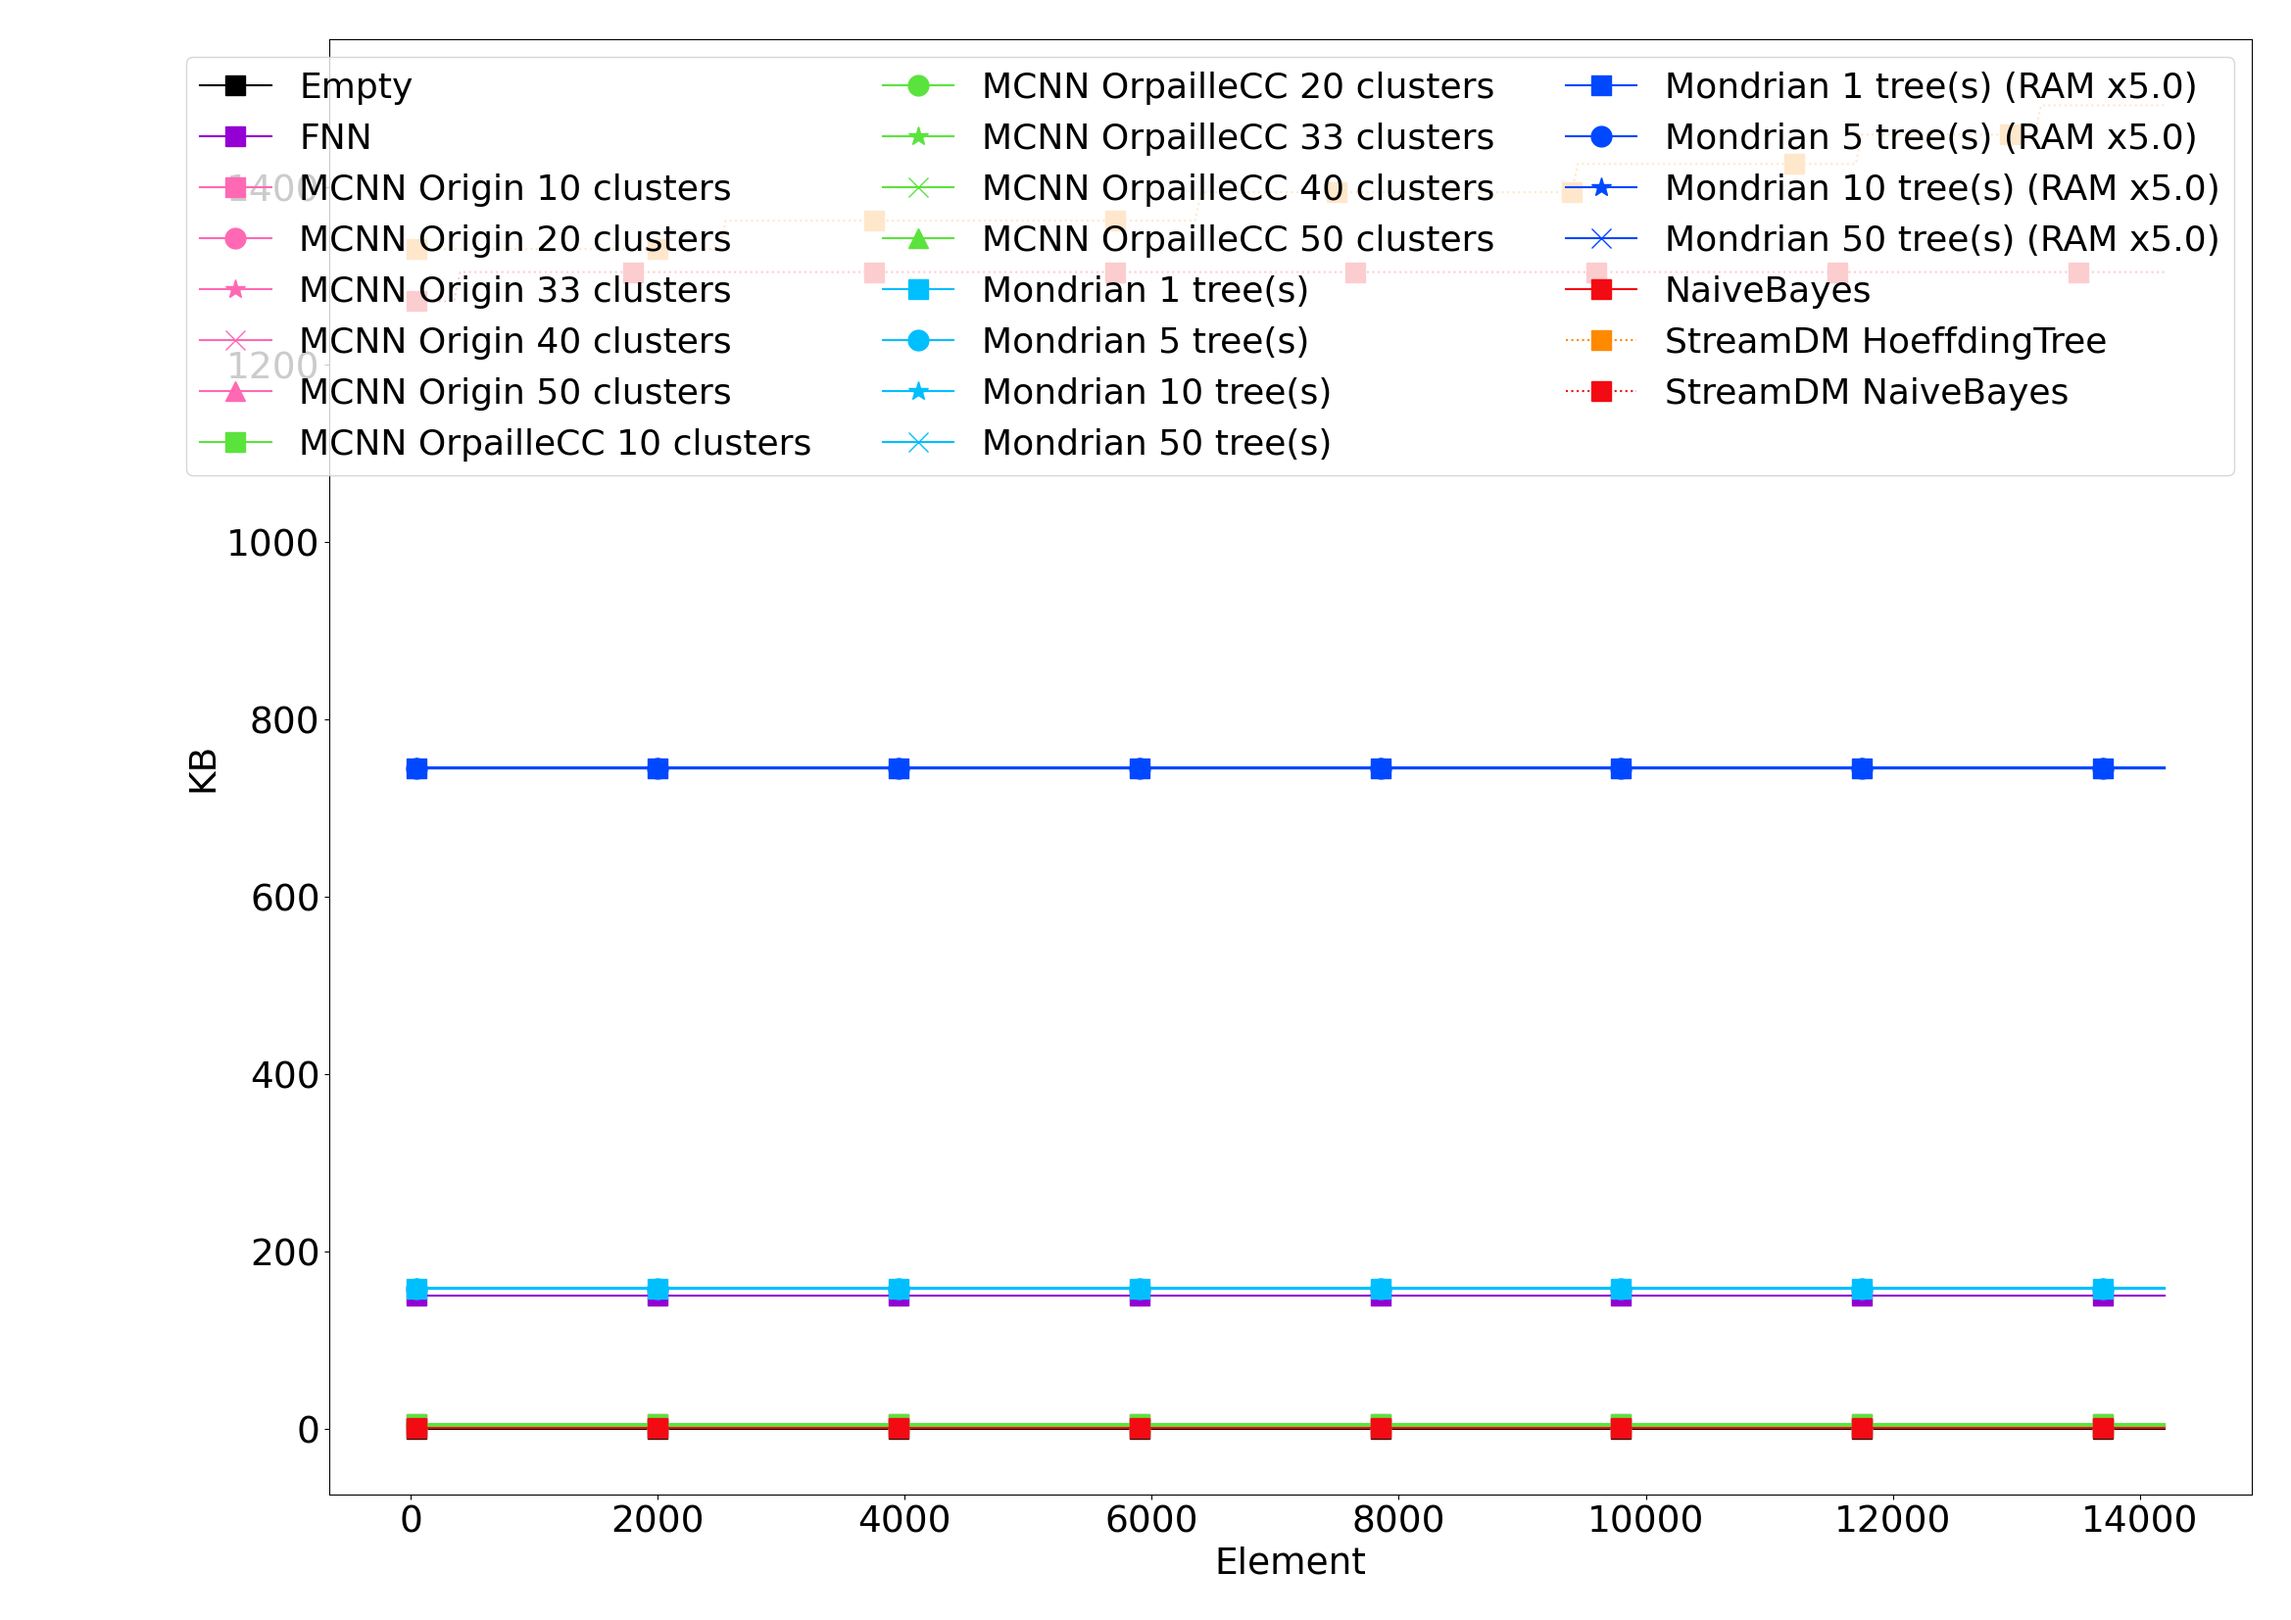
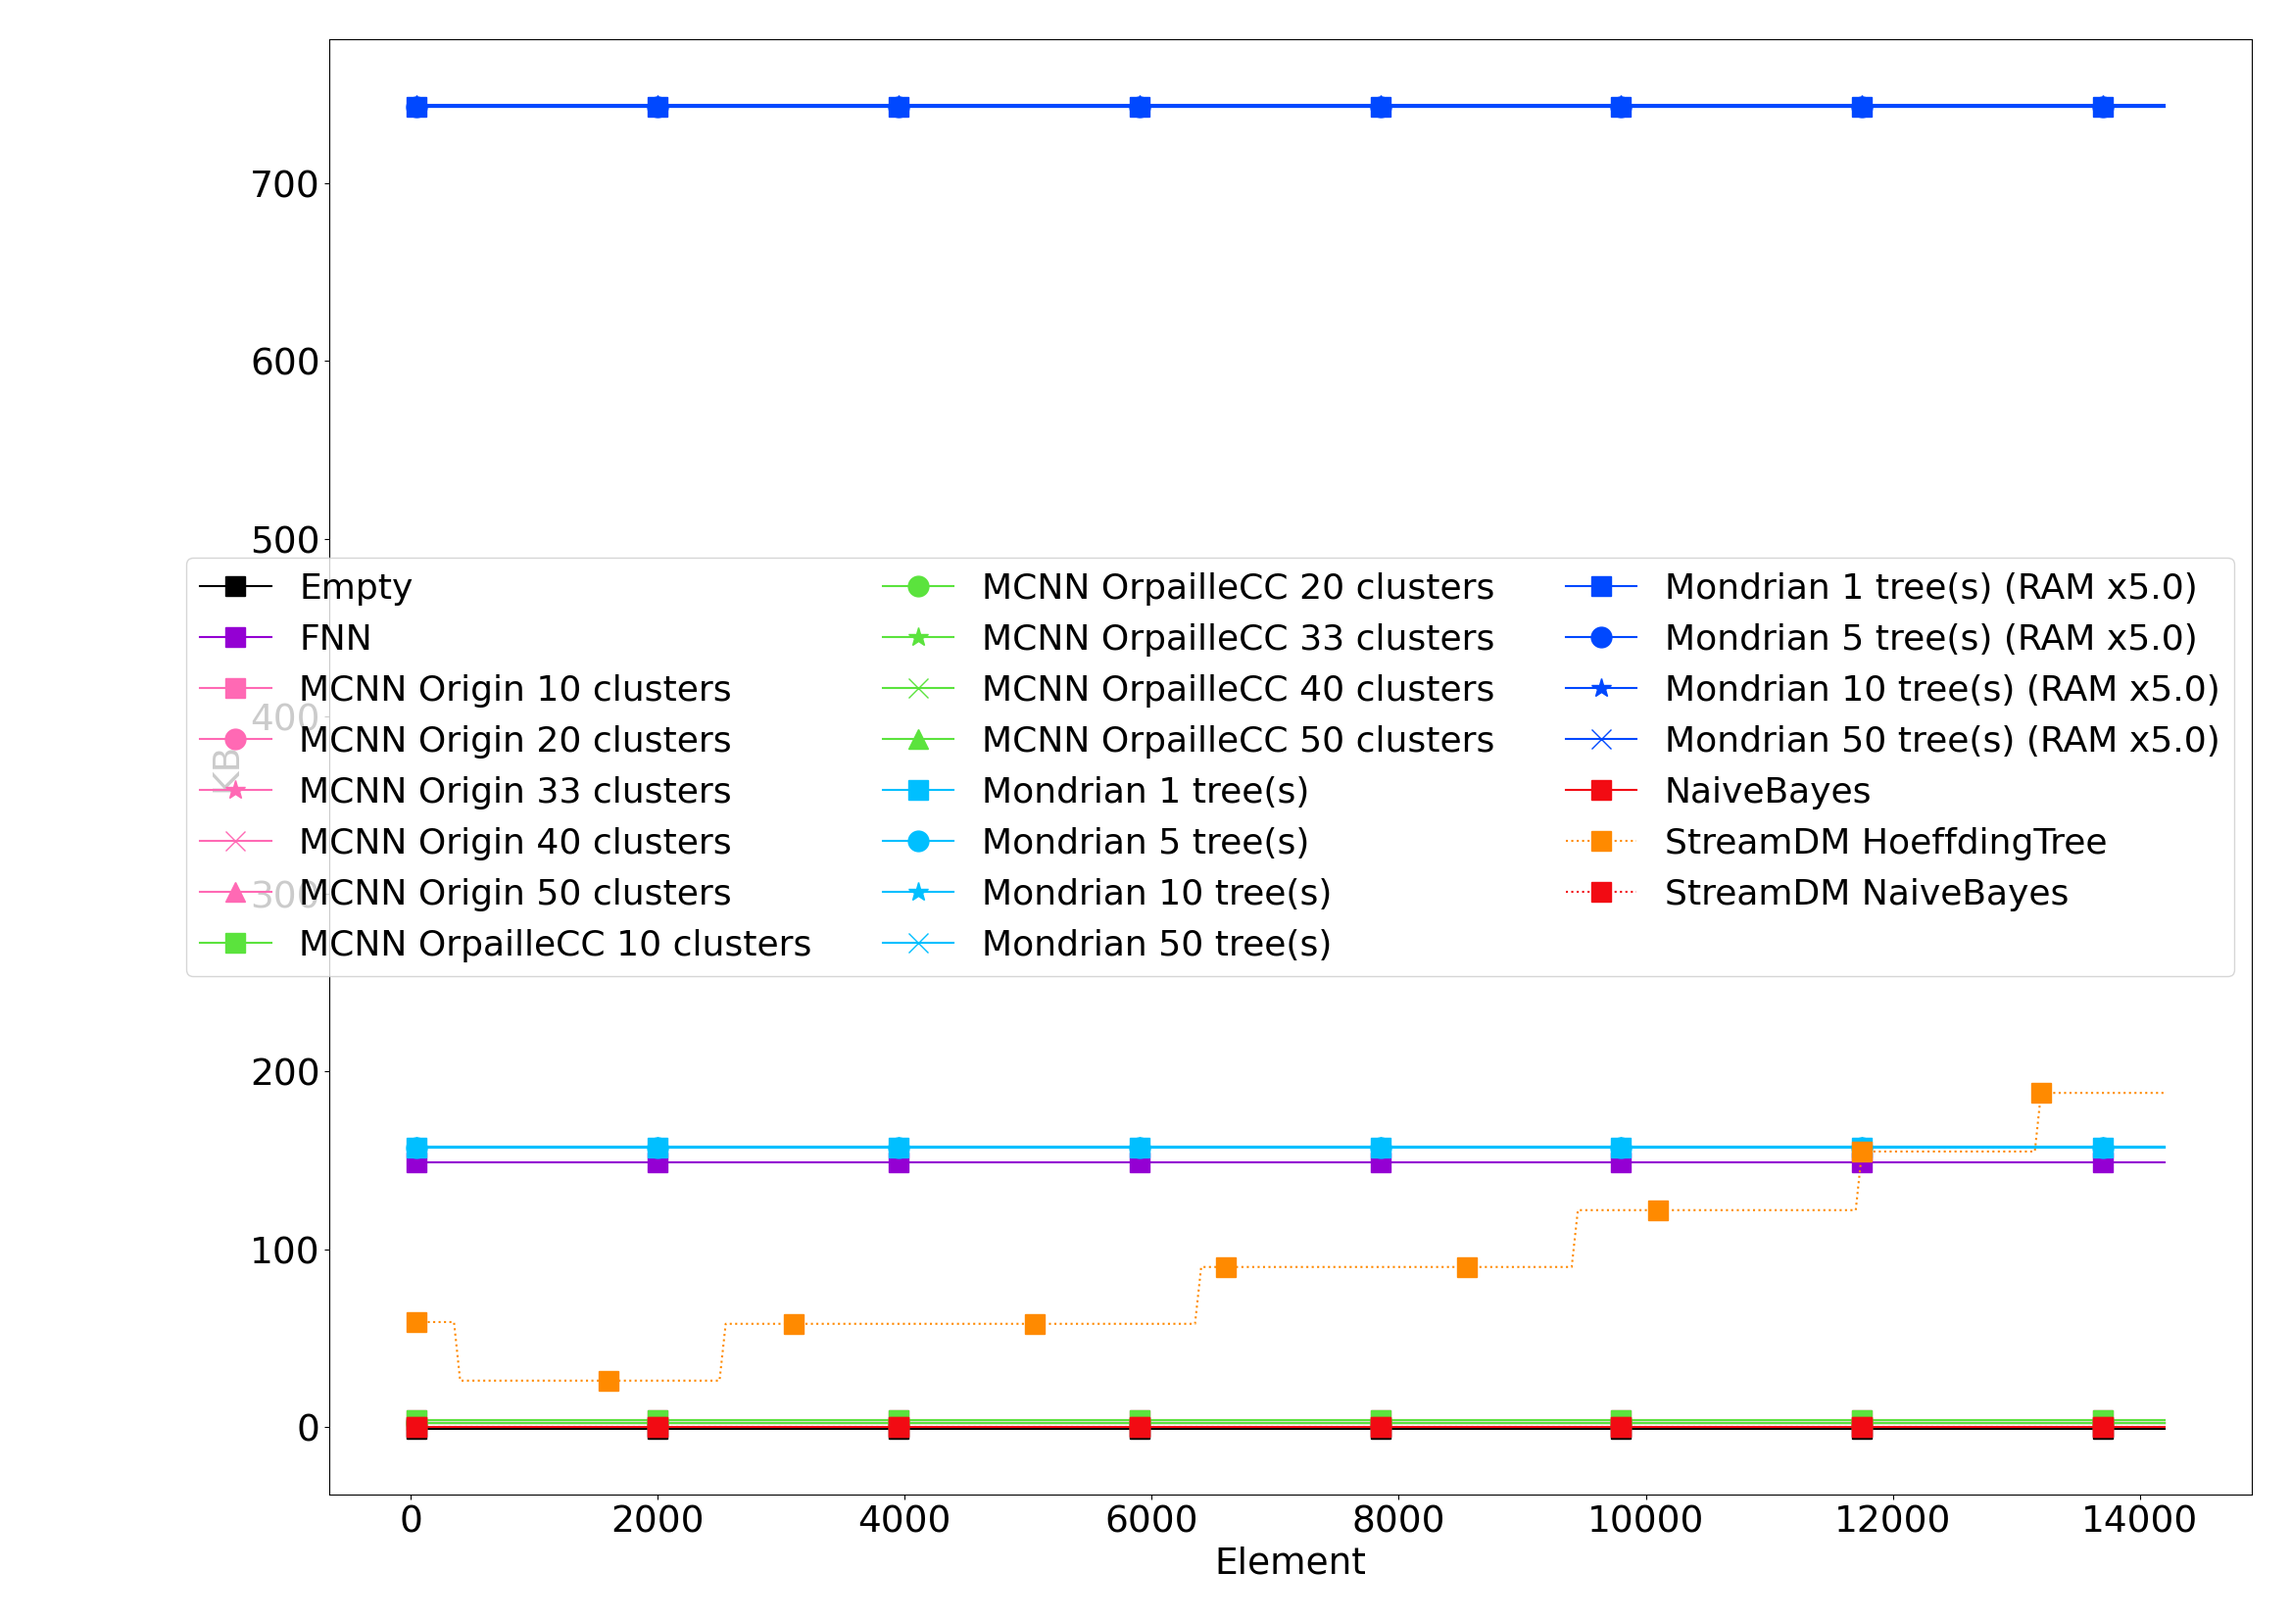
Update results.

diff --git a/paper/results.tex b/paper/results.tex
@@ -50,6 +50,18 @@ it barely reaches 0.65 for the \banosdataset dataset, and it remains under
 0.4 on the \recofitdataset and RandomTree datasets. This trend is
 consistent for all classifiers.
 
+%Offline observations
+The offline KNN used as comparison achieves better F1 scores than all other
+classifiers except for the \mondrianforest on the Hyperplane and the RandomRBF.
+In particular, these F1 scores are lower than what is observed in litterature.
+Indeed, on \banosdataset KNN only reach 0.86 when \cite{behzad2019} achieves
+0.92 and \cite{Banos_2014} reaches 0.96. Similarly, \cite{behzad2019} reaches
+0.65 on \recofitdataset dataset when we only achieve 0.4.
+
+%Offline observations
+The offline KNN used as comparison achieves better F1 scores than all other
+classifiers except for the \mondrianforest on the Hyperplane and the RandomRBF.
+
 %Hoeffding and Naïve Bayes description when they are the best
 The \naivebayes and the \hoeffdingtree stand out on the two real datasets
 (\banosdataset and \recofitdataset) even though the F1-scores observed remained
@@ -137,7 +149,10 @@ to adjust correctly so if the weights were randomly initialized for the testing
 phase, the \FNN would answer randomly.  We deviated from the method for the \FNN
 classifier because neural networks have shown a wide range of classification
 abilities depending on how they are used.  Therefore, we
-followed~\cite{omid_2019} which exhibits high classification performance.
+followed~\cite{omid_2019} which exhibits high classification performance. Since
+the \FNN model is tightly coupled with network structure and since we only
+trained the model with subject 1 from \banosdataset, we only run \FNN on the
+\banosdataset datasets.
 
 %Variance
 Figure~\ref{fig:f1-banos} includes the F1 score variance. Only the
@@ -219,18 +234,18 @@ connected objects.}
 
 \subsection{Runtime}
 Figure~\ref{fig:runtime} shows the runtime of classifiers for the two real
-datasets. The
-\mondrianforest is the slowest classifier, in particular for 50 trees. The
-second slowest classifier is the \hoeffdingtree, with a runtime comparable to the
-\mondrianforest with 10 trees. The \hoeffdingtree is followed by the two \naivebayes
-implementations, which is not surprising since \naivebayes classifiers are used
-in the leaves of the \hoeffdingtree. The \mcnn classifiers are the fastest
-ones, with a runtime very close to the empty classifier.
+datasets. The \mondrianforest is the slowest classifier, in particular for 50
+trees. The second slowest classifier is the \hoeffdingtree, with a runtime
+comparable to the \mondrianforest with 10 trees. The \hoeffdingtree is followed
+by the two \naivebayes implementations, which is not surprising since
+\naivebayes classifiers are used in the leaves of the \hoeffdingtree. The \mcnn
+classifiers are the fastest ones, with a runtime very close to the empty
+classifier. Note that allocating more memory to the \mondrianforest
+significatively increase the runtime.
 
 We observe that the runtime of StreamDM's \naivebayes is comparable to
- OrpailleCC's. This suggests that the performance of the two
- libraries is similar, which justifies our comparision of \hoeffdingtree
- and \mondrianforest.
+OrpailleCC's. This suggests that the performance of the two libraries is
+similar, which justifies our comparision of \hoeffdingtree and \mondrianforest.
 
 \begin{figure*}
 	\begin{subfigure}[t]{.49\linewidth}
@@ -251,11 +266,15 @@ We observe that the runtime of StreamDM's \naivebayes is comparable to
 \subsection{Memory}
 \label{sec:result-memory}
 Figure~\ref{fig:memory} shows the evolution of the memory footprint for the
-\banosdataset dataset. Because we focus on the classifiers footprint, the
-figure only shows the memory difference between the classifiers and the empty
-classifier. 
+\banosdataset dataset. Since we observed that \naivebayes memory footprint was
+almost indistinguishable from the empty classifier, we used the two \naivebayes
+as a baseline for the two libraries. This enables us to remove the 1.2~MB overhead
+induced by StreamDM.
 
-Memory footprint is similar across all datasets and all classifiers, due to the
+We observe that the memory footprints of the \mondrianforest and the
+\hoeffdingtree are significatively higher while the \mcnns and the \naivebayes are
+close to zero~KB.
+Overall, memory footprints are similar across datasets, due to the
 fact that most algorithms follow a bounded memory policy or have a constant
 space complexity.  The only exception is the \hoeffdingtree that constantly
 selects new splits depending on new data points. The \mondrianforest has the
@@ -263,16 +282,11 @@ same behavior but the OrpailleCC implementation includes a memory bound, which
 makes its memory footprint constant. Note that the concept drift does not
 increase the memory footprint of the \hoeffdingtree.
 
-
-\TG{it looks like the hoeffding tree consumes way more memory, but isnt it a
-side effect of using streamDM? Maybe all memory consumptions should be computed by reference 
-to the naive bayes baseline. }
-
 \begin{figure}
-	\includegraphics[width=\linewidth]{figures/results/banos_3_memory.png}
+	\includegraphics[width=\linewidth]{figures/results/banos_6_memory.png}
 	\caption{Memory footprint of the classifiers relatively to the empty
 	classifier, measured on the \banosdataset dataset. The memory footprint of the empty
-	classifier is slightly above 3.439KB.}
+	classifier is slightly above 3.439MB.}
 	\label{fig:memory}
 \end{figure}
 
